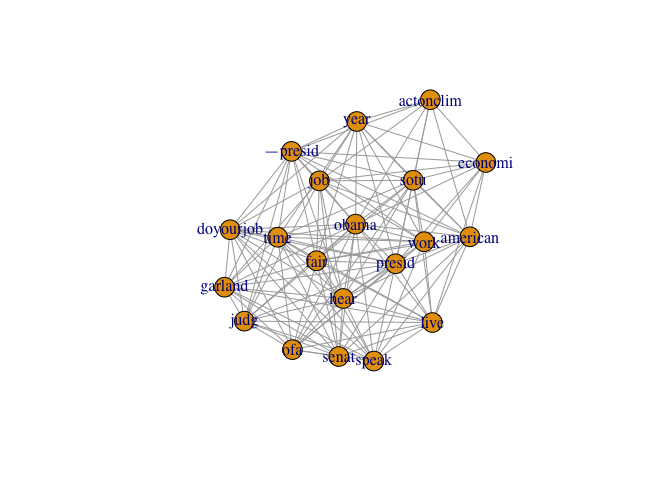
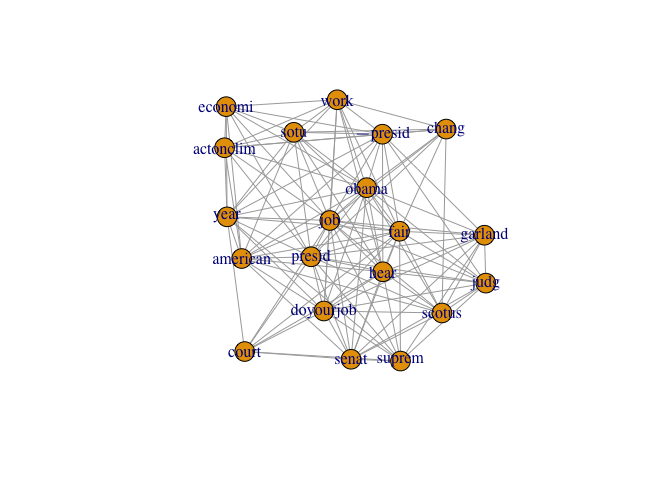
remove warning messages from result

Changed region(s): [[0.2812, 0.1875, 0.75, 0.7812]]

diff --git a/twitter_net.md b/twitter_net.md
@@ -3,7 +3,14 @@ Hagai Levi
 9 April 2016  
 
 
-Based on http://www.rdatamining.com/examples/text-mining
+
+A preface to this work can be found in the [README](README.md).  
+
+We have decided to first show clustering and only then to show the cenrality merics
+so that we can include the clusters in the graph when plotting the cenrality merics,
+even though it is not the order of the tasks in the assignment.  
+
+We have based on http://www.rdatamining.com/examples/text-mining for retrieving the tweets.
 
 
 ```r
@@ -57,13 +64,8 @@ cat(sprintf("Matrix dimensions: %i cols, %i rows", ncol(df), nrow(df)))
 
 ```r
 library(tm)
-```
 
-```
-## Loading required package: NLP
-```
 
-```r
 # build a corpus, which is a collection of text documents
 # VectorSource specifies that the source is character vectors.
 myCorpus <- Corpus(VectorSource(df$text))
@@ -168,30 +170,15 @@ frequent items.
 
 ```r
 library(igraph)
-```
 
-```
-## 
-## Attaching package: 'igraph'
-```
-
-```
-## The following objects are masked from 'package:stats':
-## 
-##     decompose, spectrum
-```
-
-```
-## The following object is masked from 'package:base':
-## 
-##     union
-```
-
-```r
 # Get the most frequent words
 frequent <- getMostFrequentTerms(myDtm, 20)
 frequentTermMatrix <- termMatrix[names(frequent),names(frequent)]
+```
 
+Now, we construct a graph from the most frequent terms
+
+```r
 # make a binary matrix
 frequentTermMatrix[frequentTermMatrix>1] <- 1
 g <- graph.adjacency(frequentTermMatrix, mode = "undirected")
@@ -207,7 +194,9 @@ lay <- layout.kamada.kawai(g)
 plot(g, layout=lay)
 ```
 
-![](twitter_net_files/figure-html/unnamed-chunk-7-1.png)
+![](twitter_net_files/figure-html/unnamed-chunk-8-1.png)
+
+Adding clustering:
 
 ```r
 # Now add clustering to the graph
@@ -215,7 +204,7 @@ community <- walktrap.community(g)
 plot(g, layout=lay, vertex.size=5, vertex.color=community$membership, asp=FALSE)
 ```
 
-![](twitter_net_files/figure-html/unnamed-chunk-7-2.png)
+![](twitter_net_files/figure-html/unnamed-chunk-9-1.png)
 
 We got 2 communities. The size of each community:
 
@@ -261,7 +250,7 @@ And show it on the graph, together with the clusters:
 plot(g, layout=lay, vertex.color=community$membership, vertex.size=betweenness(g), asp=FALSE)
 ```
 
-![](twitter_net_files/figure-html/unnamed-chunk-11-1.png)
+![](twitter_net_files/figure-html/unnamed-chunk-13-1.png)
 
 Same goes for closeness:
 
@@ -284,7 +273,7 @@ t(closeness(g))
 plot(g, layout=lay, vertex.color=community$membership, vertex.size=closeness(g), asp=FALSE)
 ```
 
-![](twitter_net_files/figure-html/unnamed-chunk-12-1.png)
+![](twitter_net_files/figure-html/unnamed-chunk-14-1.png)
 
 And as closeness generates small values, we will increases the vertexes size:
 
@@ -307,7 +296,7 @@ t(g.closeness.normalized)
 plot(g, layout=lay, vertex.color=community$membership, vertex.size=g.closeness.normalized, asp=FALSE)
 ```
 
-![](twitter_net_files/figure-html/unnamed-chunk-13-1.png)
+![](twitter_net_files/figure-html/unnamed-chunk-15-1.png)
 
 Same goes for eigen values:  
 **For eigenvalues, we will not show a graph, due to negative values.**
